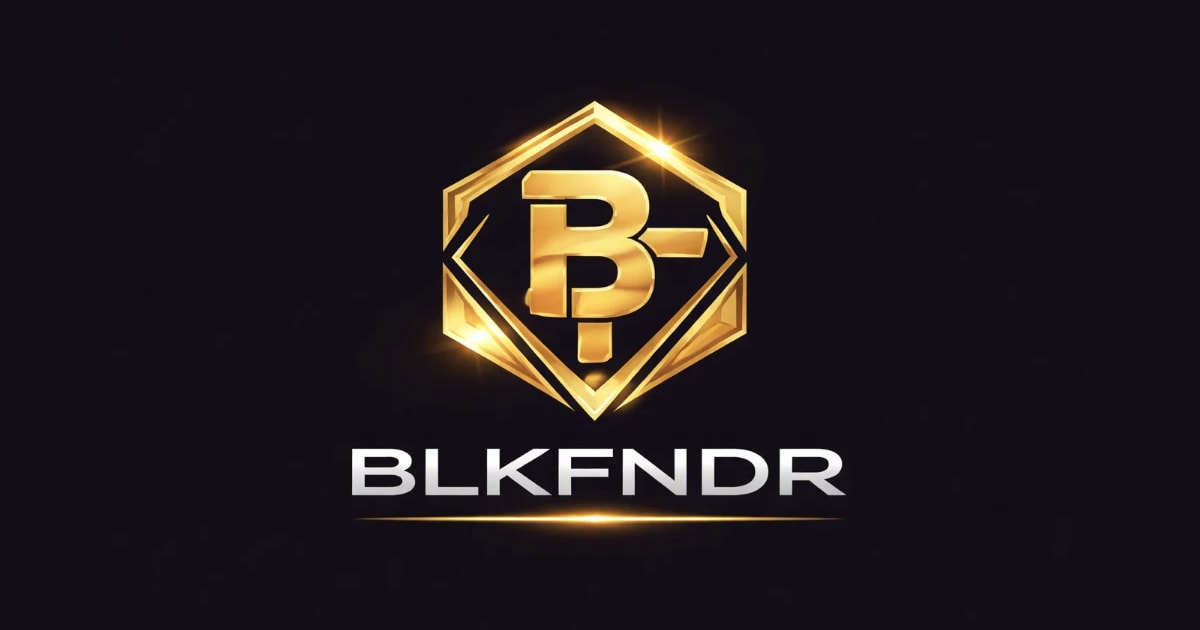
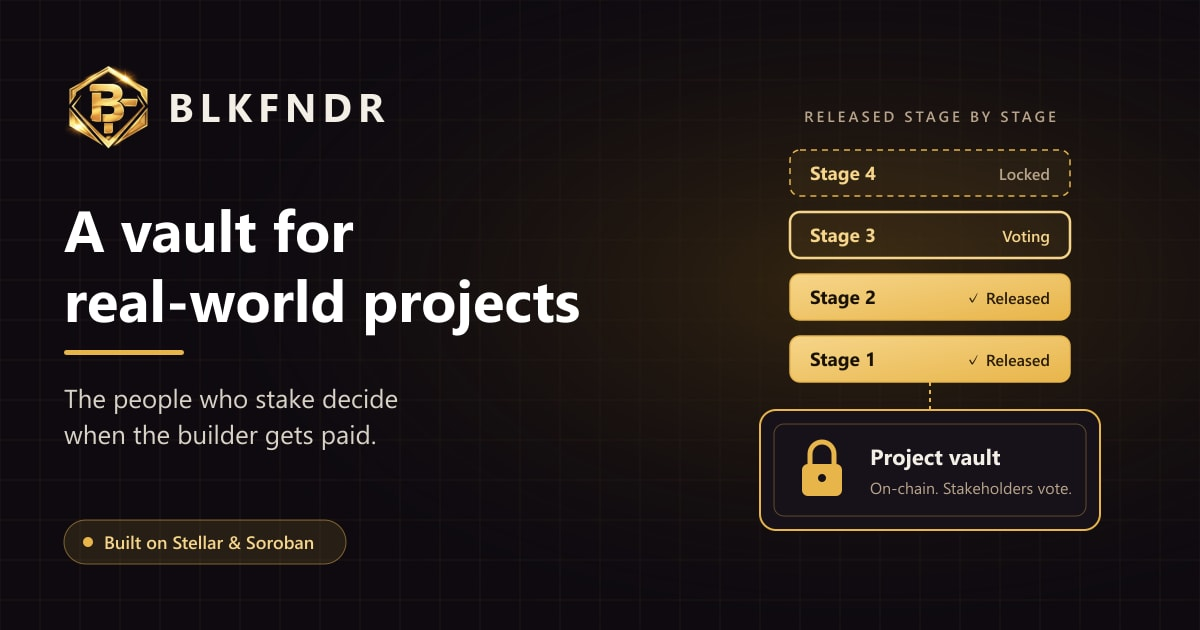
Replace the share image with a designed BLKFNDR card
The logo-only share image is swapped for a 1200x630 card: the emblem and
name, the headline and the staking line from the hero, and a project vault
releasing its money stage by stage. Same file names, so the metadata from
#188 serves it unchanged.

diff --git a/src/app/projects/[id]/page.tsx b/src/app/projects/[id]/page.tsx
@@ -38,7 +38,7 @@ export async function generateMetadata(
   const description = project.tagline?.trim() || undefined;
   // Without these a shared project link would carry the site's title from the
   // root layout. They extend the layout's rather than replace them: a page's
-  // own openGraph drops the inherited logo image, site name and large card.
+  // own openGraph drops the inherited share image, site name and large card.
   const { openGraph, twitter } = await parent;
   return {
     title,

diff --git a/src/app/layout.tsx b/src/app/layout.tsx
@@ -49,7 +49,8 @@ function siteOrigin(): URL | undefined {
 }
 
 // The share image itself is opengraph-image.jpg / twitter-image.jpg in this
-// folder: the full logo, used for every page that doesn't set its own.
+// folder: a 1200x630 card (logo, headline, a vault releasing stages), used for
+// every page that doesn't set its own.
 export const metadata: Metadata = {
   metadataBase: siteOrigin(),
   title: SITE_TITLE,
